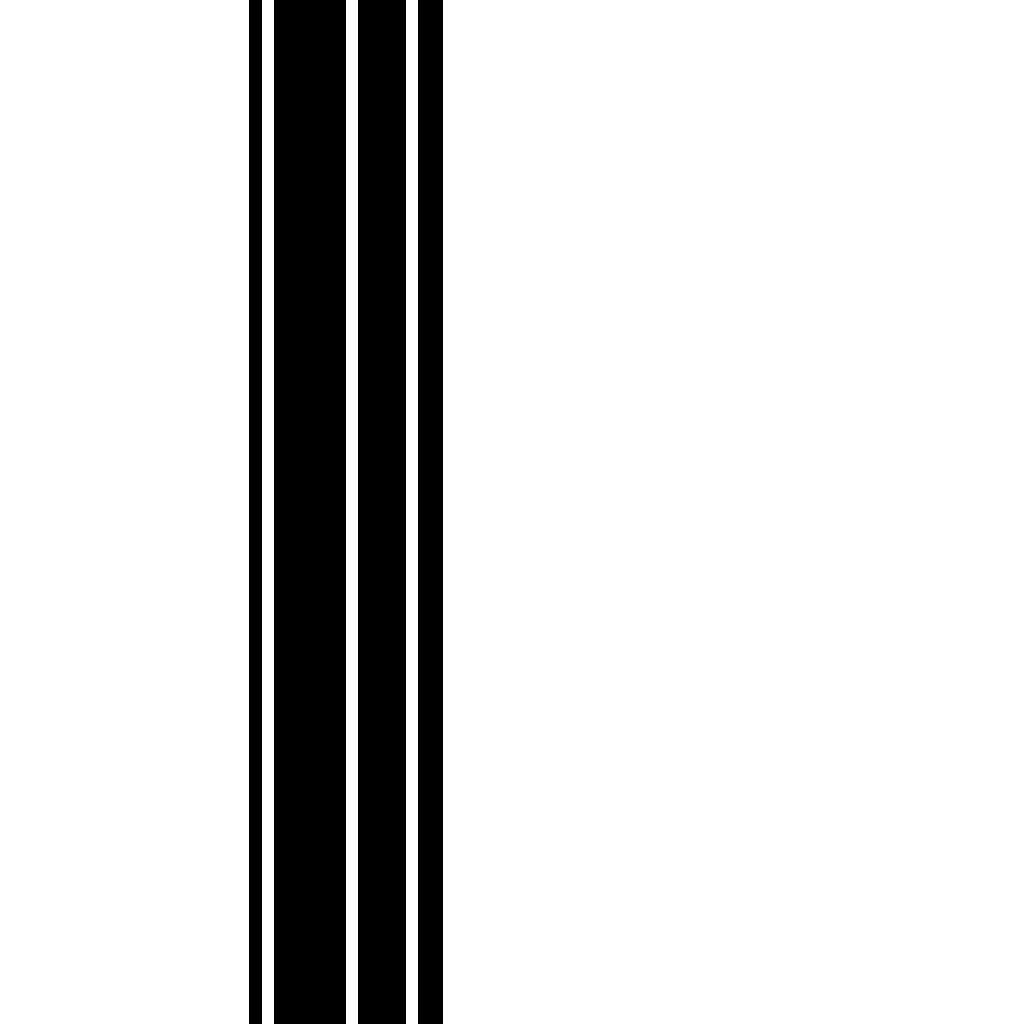
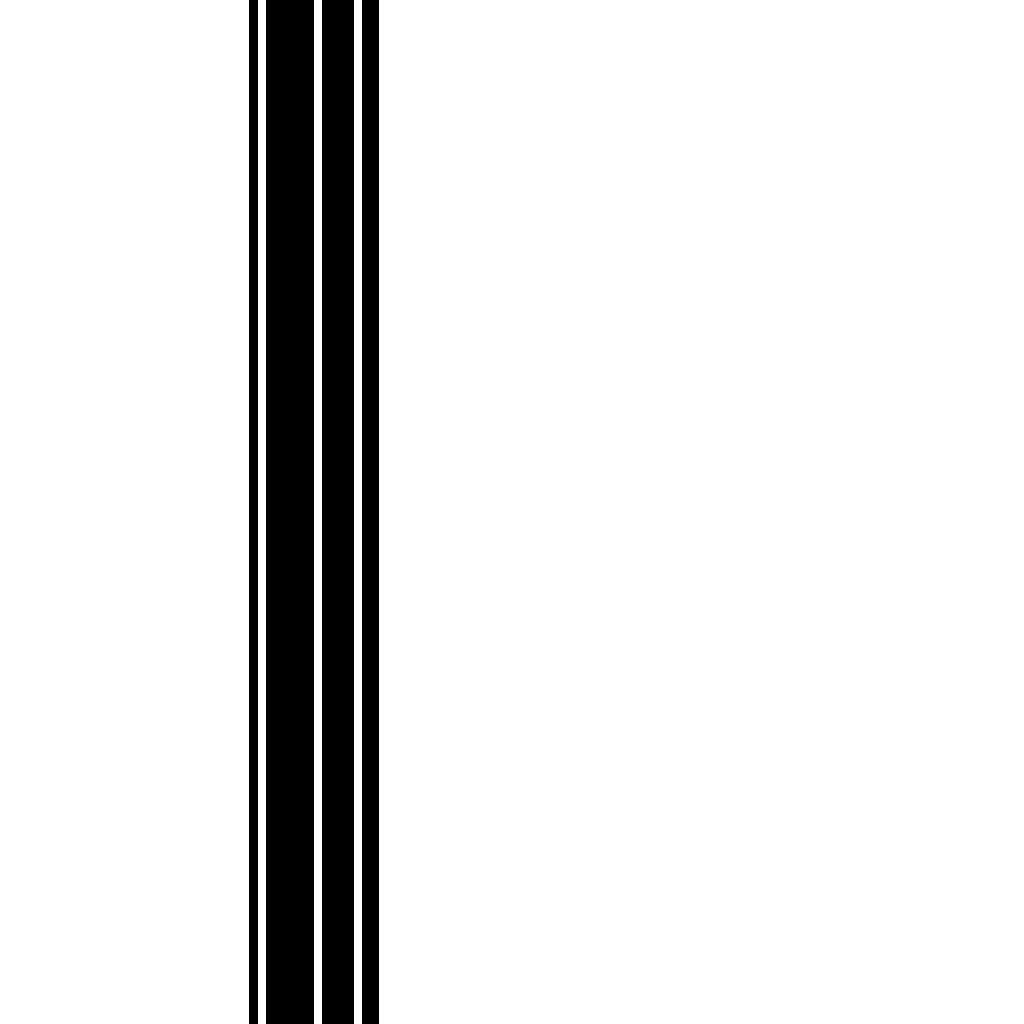
barcode modification

Changed region(s): [[0.25, 0.0, 0.4375, 1.0]]

diff --git a/ImageGenerator.py b/ImageGenerator.py
@@ -5,12 +5,12 @@ data = numpy.zeros((1024, 1024, 3), dtype=numpy.uint8)
 #tab_music = numpy.array([1, 1, 0, 1, 0, 0, 1, 1, 1, 0, 1, 0, 1, 1, 1, 1])
 #tab_music = numpy.array([1,     0, 1 , 1, 1, 1     , 1, 1,     0, 1, 1, 1, 1,        0, 1, 1])
 #tab_music = numpy.array([1,     1, 0 , 0, 0, 0     , 1, 0,     0, 1, 0, 1, 1,        0, 1, 1])
-tab_music = numpy.array( [1,     0, 1 , 0, 0, 0     , 0, 0,     0, 0, 0, 0, 0,        0, 0, 1])
-#tab_music = numpy.array([1,     0, 0 , 0, 0, 0     , 0, 0,     0, 0, 0, 0, 0,        0, 0, 1])
+tab_music = numpy.array( [1,     0, 1 , 0, 0, 0     , 0, 0,     0, 0, 0, 0, 0,        1, 1, 1])
+#tab_music = numpy.array([1,     0,  0, 0, 0, 0     , 1, 1,     0, 0, 0, 0, 0,        1, 1, 1])
 
 
 #constantes globales
-BIT_WIDTH = 12
+BIT_WIDTH = 8
 
 #algo remplissage
 for i in range (1024):
